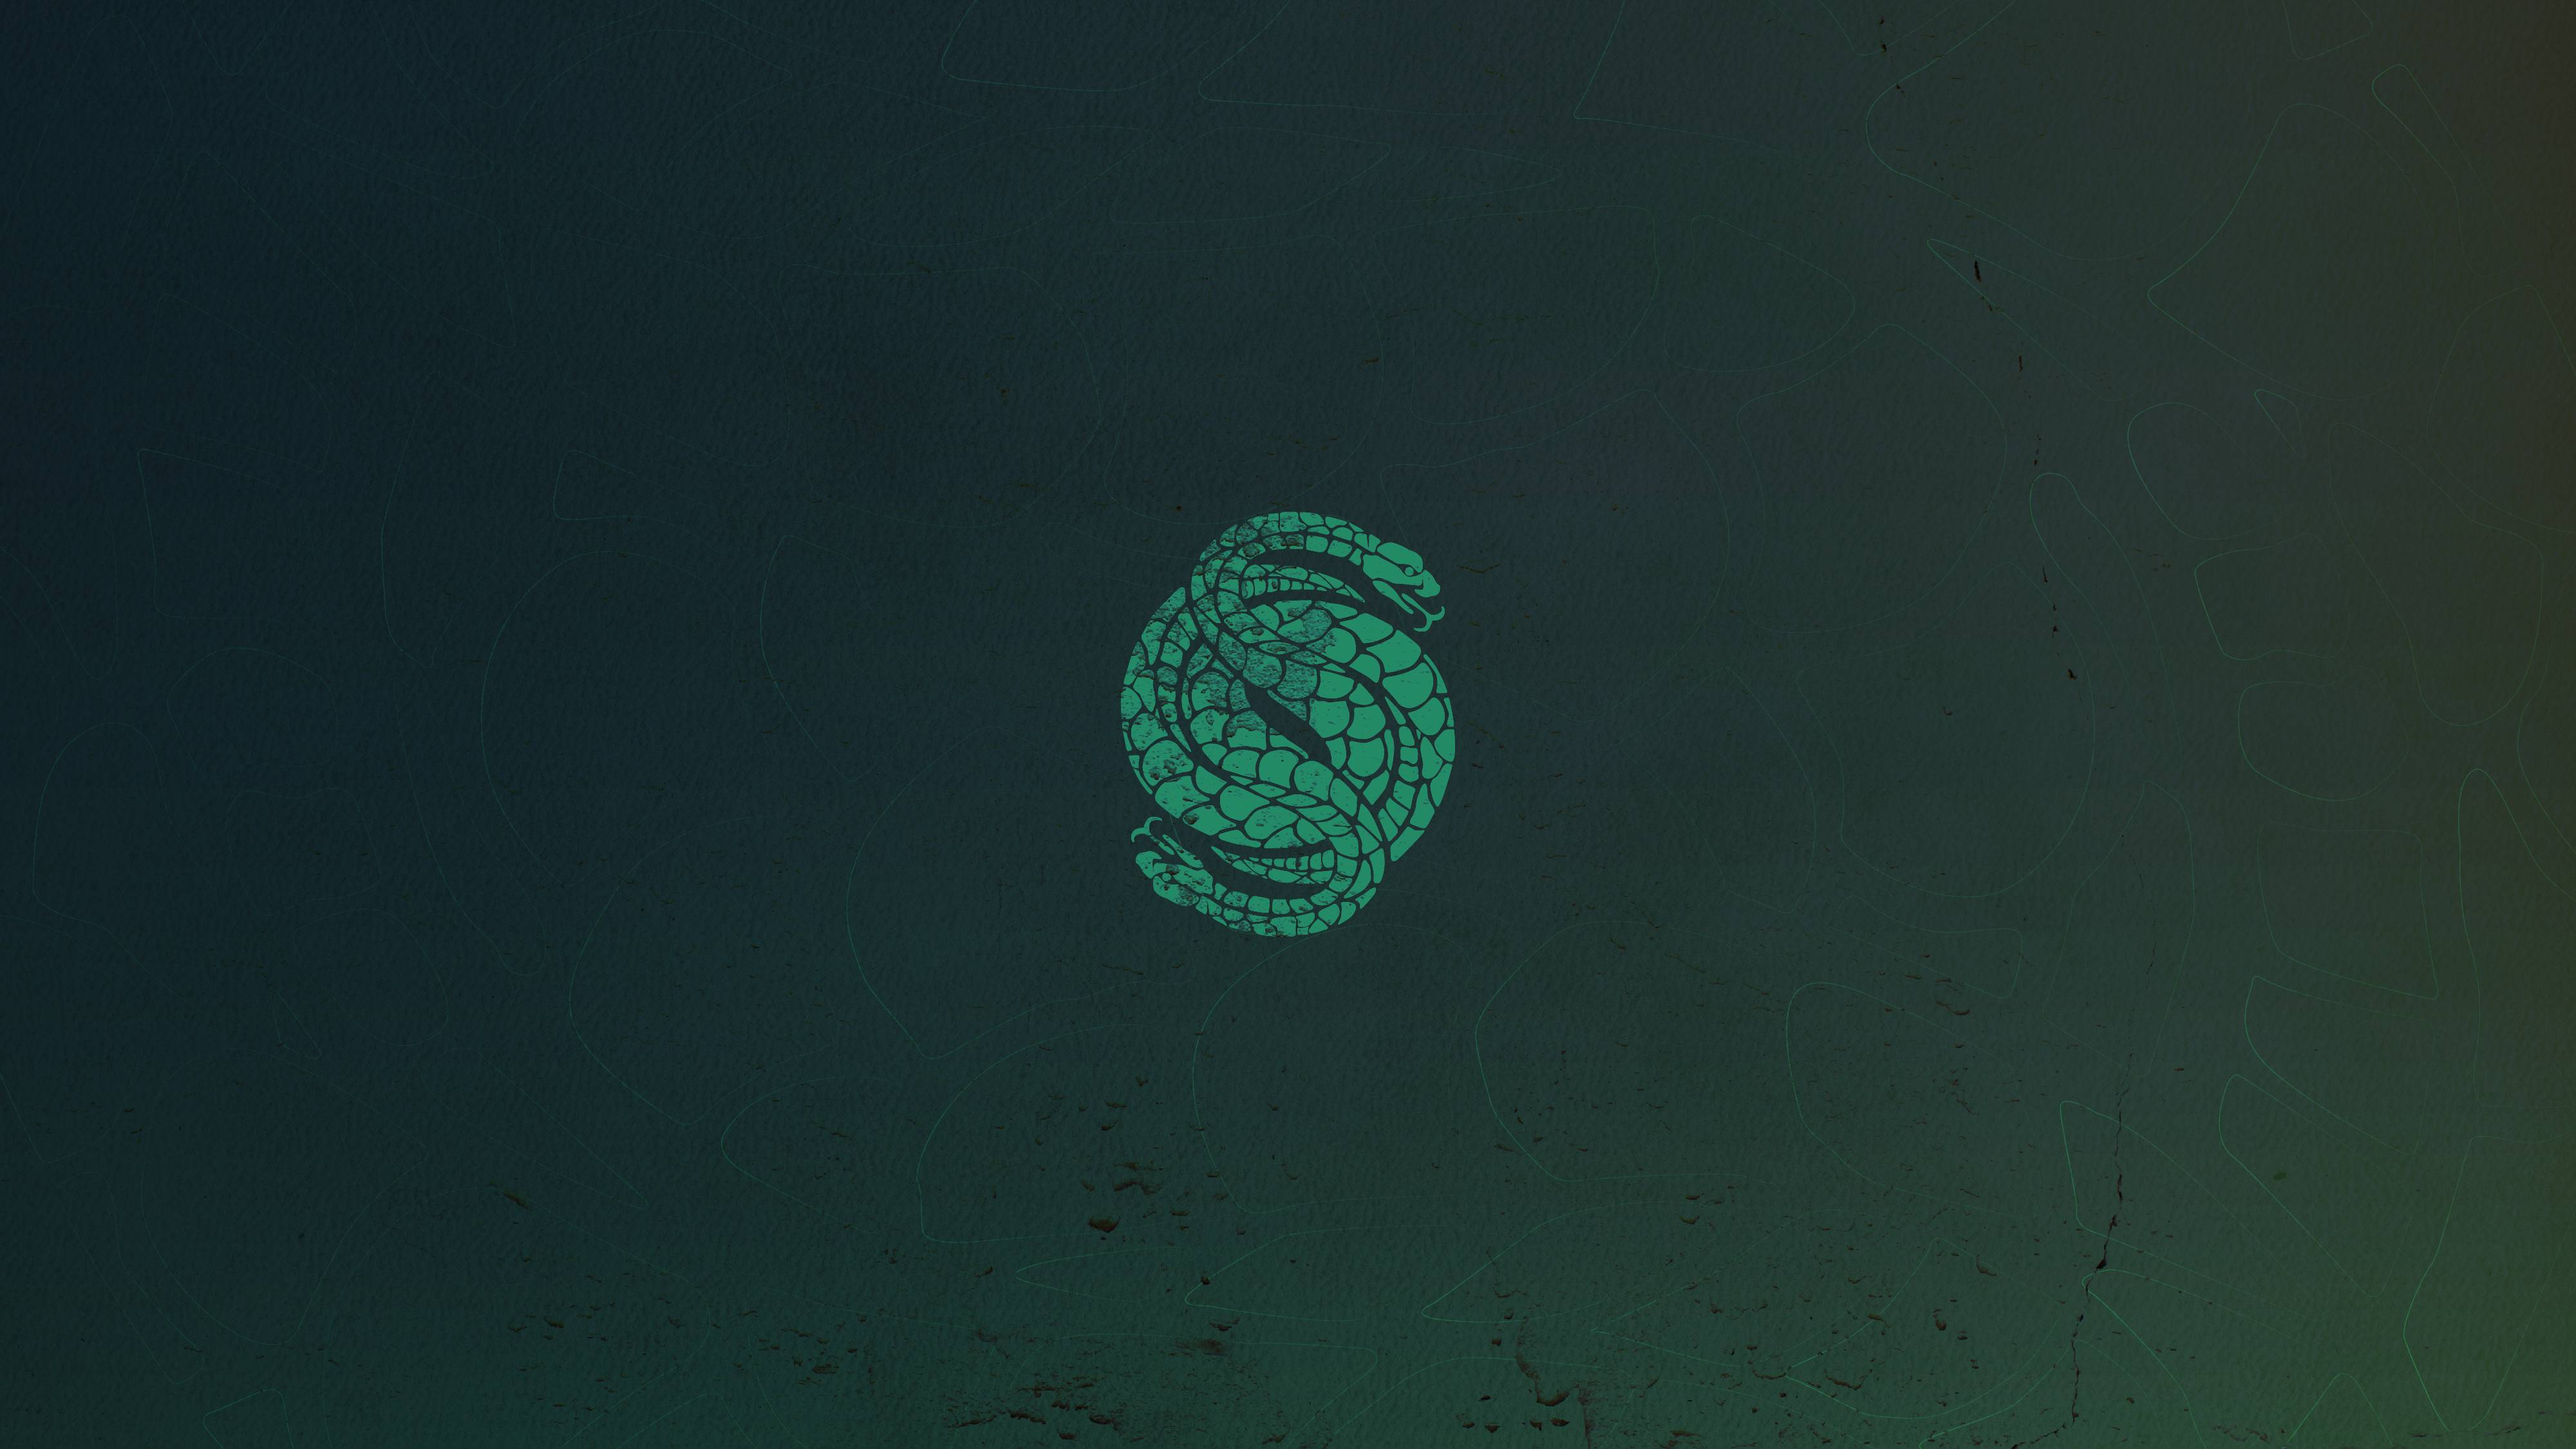
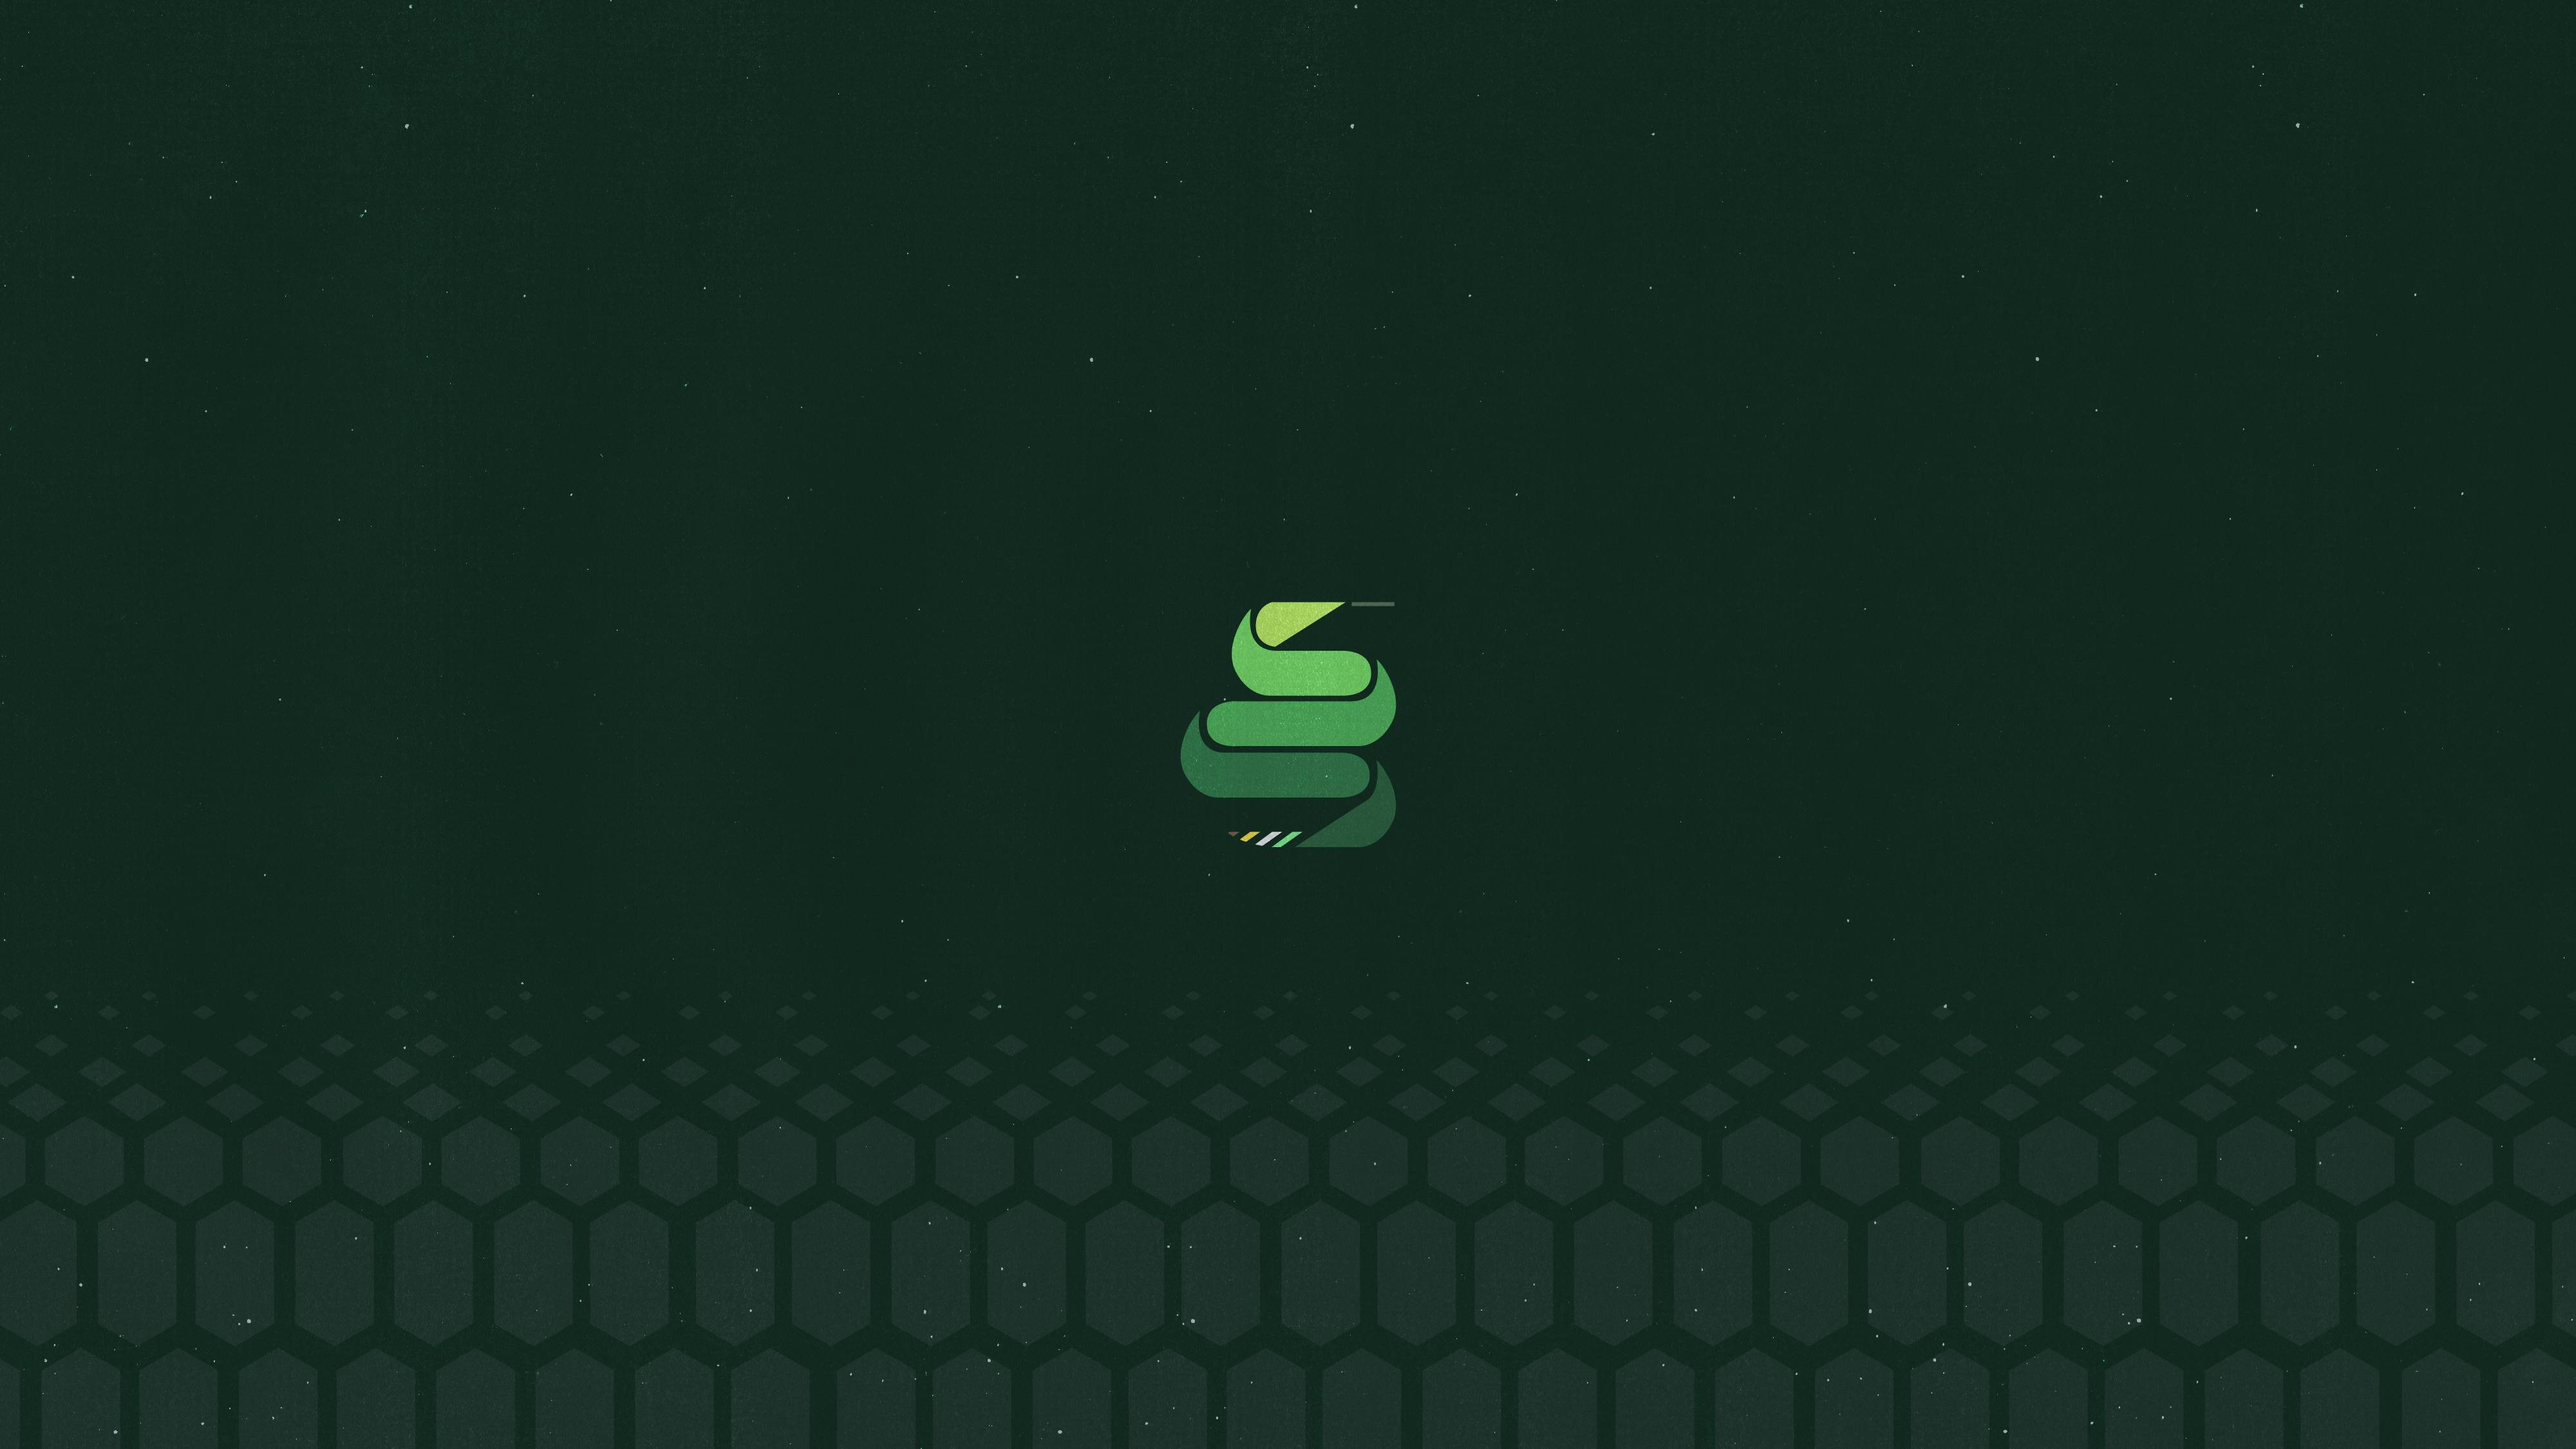
Updated assets, tweaked colors.

diff --git a/src/components/Generator.vue b/src/components/Generator.vue
@@ -106,19 +106,19 @@ export default Vue.extend({
 
             switch (this.$route.params.character) {
                 case 'cayde':
-                    root.style.setProperty('--generator-bkg-color', 'rgba(109, 22, 25, 0.98)');
+                    root.style.setProperty('--generator-bkg-color', 'rgba(102, 51, 48, 1)');
                     root.style.setProperty('--generator-main-color', '#f5f5f5');
                     root.style.setProperty('--generator-hover-color', '#333333');
                     root.style.setProperty('--generator-box-shadow',
-                        '20px 20px 60px #5d1315, -20px -20px 60px #7d191d');
+                        '20px 20px 60px #572b29, -20px -20px 60px #753b37');
                     break;
 
                 case 'drifter':
-                    root.style.setProperty('--generator-bkg-color', 'rgba(40, 138, 103, 0.95)');
-                    root.style.setProperty('--generator-main-color', '#f5f5f5');
+                    root.style.setProperty('--generator-bkg-color', 'rgba(16, 42, 32, 0.96)');
+                    root.style.setProperty('--generator-main-color', '#d5d5d5');
                     root.style.setProperty('--generator-hover-color', '#333333');
                     root.style.setProperty('--generator-box-shadow',
-                        '20px 20px 60px #227558, -20px -20px 60px #2e9f76');
+                        '20px 20px 60px #0e241b, -20px -20px 60px #123025');
                     break;
 
                 case 'vance':

diff --git a/src/App.vue b/src/App.vue
@@ -7,25 +7,25 @@
 <style lang="scss">
 @import '@/styles/_reset.scss';
 
-html,
-body {
-    height: 100%;
-}
-
-#app {
-    background-color: #333333;
-    color: #333333;
-    font-family: -apple-system,BlinkMacSystemFont,"Segoe UI",Roboto,Oxygen-Sans,Ubuntu,Cantarell,"Helvetica Neue",sans-serif;
-    -moz-osx-font-smoothing: grayscale;
-    -webkit-font-smoothing: antialiased;
-    height: 100%;
-}
-
 :root {
   --generator-bkg-color: #ffffff;
   --generator-title-color: #ffffff;
   --generator-text-color: #ffffff;
   --generator-button-color: #ffffff;
   --generator-box-shadow: 20px 20px 60px #ffffff, -20px -20px 60px #ffffff;
+}
+
+html,
+body {
+    height: 100%;
+}
+
+#app {
+    background-color: var(--generator-bkg-color);
+    color: #333333;
+    font-family: -apple-system,BlinkMacSystemFont,"Segoe UI",Roboto,Oxygen-Sans,Ubuntu,Cantarell,"Helvetica Neue",sans-serif;
+    -moz-osx-font-smoothing: grayscale;
+    -webkit-font-smoothing: antialiased;
+    height: 100%;
 }
 </style>

diff --git a/src/views/Selection.vue b/src/views/Selection.vue
@@ -12,9 +12,9 @@
         <router-link
             class="selection__item"
             tag="div"
-            to="/cayde">
-            <div class="selection__content selection__content--cayde">
-                <div class="selection__title">Cayde</div>
+            to="/vance">
+            <div class="selection__content selection__content--vance">
+                <div class="selection__title">Brother Vance</div>
             </div>
         </router-link>
 
@@ -30,9 +30,9 @@
         <router-link
             class="selection__item"
             tag="div"
-            to="/vance">
-            <div class="selection__content selection__content--vance">
-                <div class="selection__title">Brother Vance</div>
+            to="/cayde">
+            <div class="selection__content selection__content--cayde">
+                <div class="selection__title">Cayde</div>
             </div>
         </router-link>
     </div>

diff --git a/src/components/GeneratorForm.vue b/src/components/GeneratorForm.vue
@@ -39,26 +39,26 @@ export default Vue.extend({
     border-top: 2px solid var(--generator-main-color);
     display: flex;
     justify-content: center;
-    padding: 12px 0;
+    padding-top: 16px;
 }
 
 .generator-form__button {
     align-items: center;
     background: none;
     border: 2px solid var(--generator-main-color);
-    border-radius: 24px;
+    border-radius: 28px;
     color: var(--generator-main-color);
     cursor: pointer;
     display: flex;
-    height: 24px;
+    height: 28px;
     justify-content: center;
     margin: 0 16px;
     opacity: 0.8;
-    padding: 12px;
+    padding: 6px;
     text-shadow: none;
     transition: 200ms all linear;
     user-select: none;
-    width: 24px;
+    width: 28px;
 
     &:hover {
         background-color: var(--generator-main-color);
